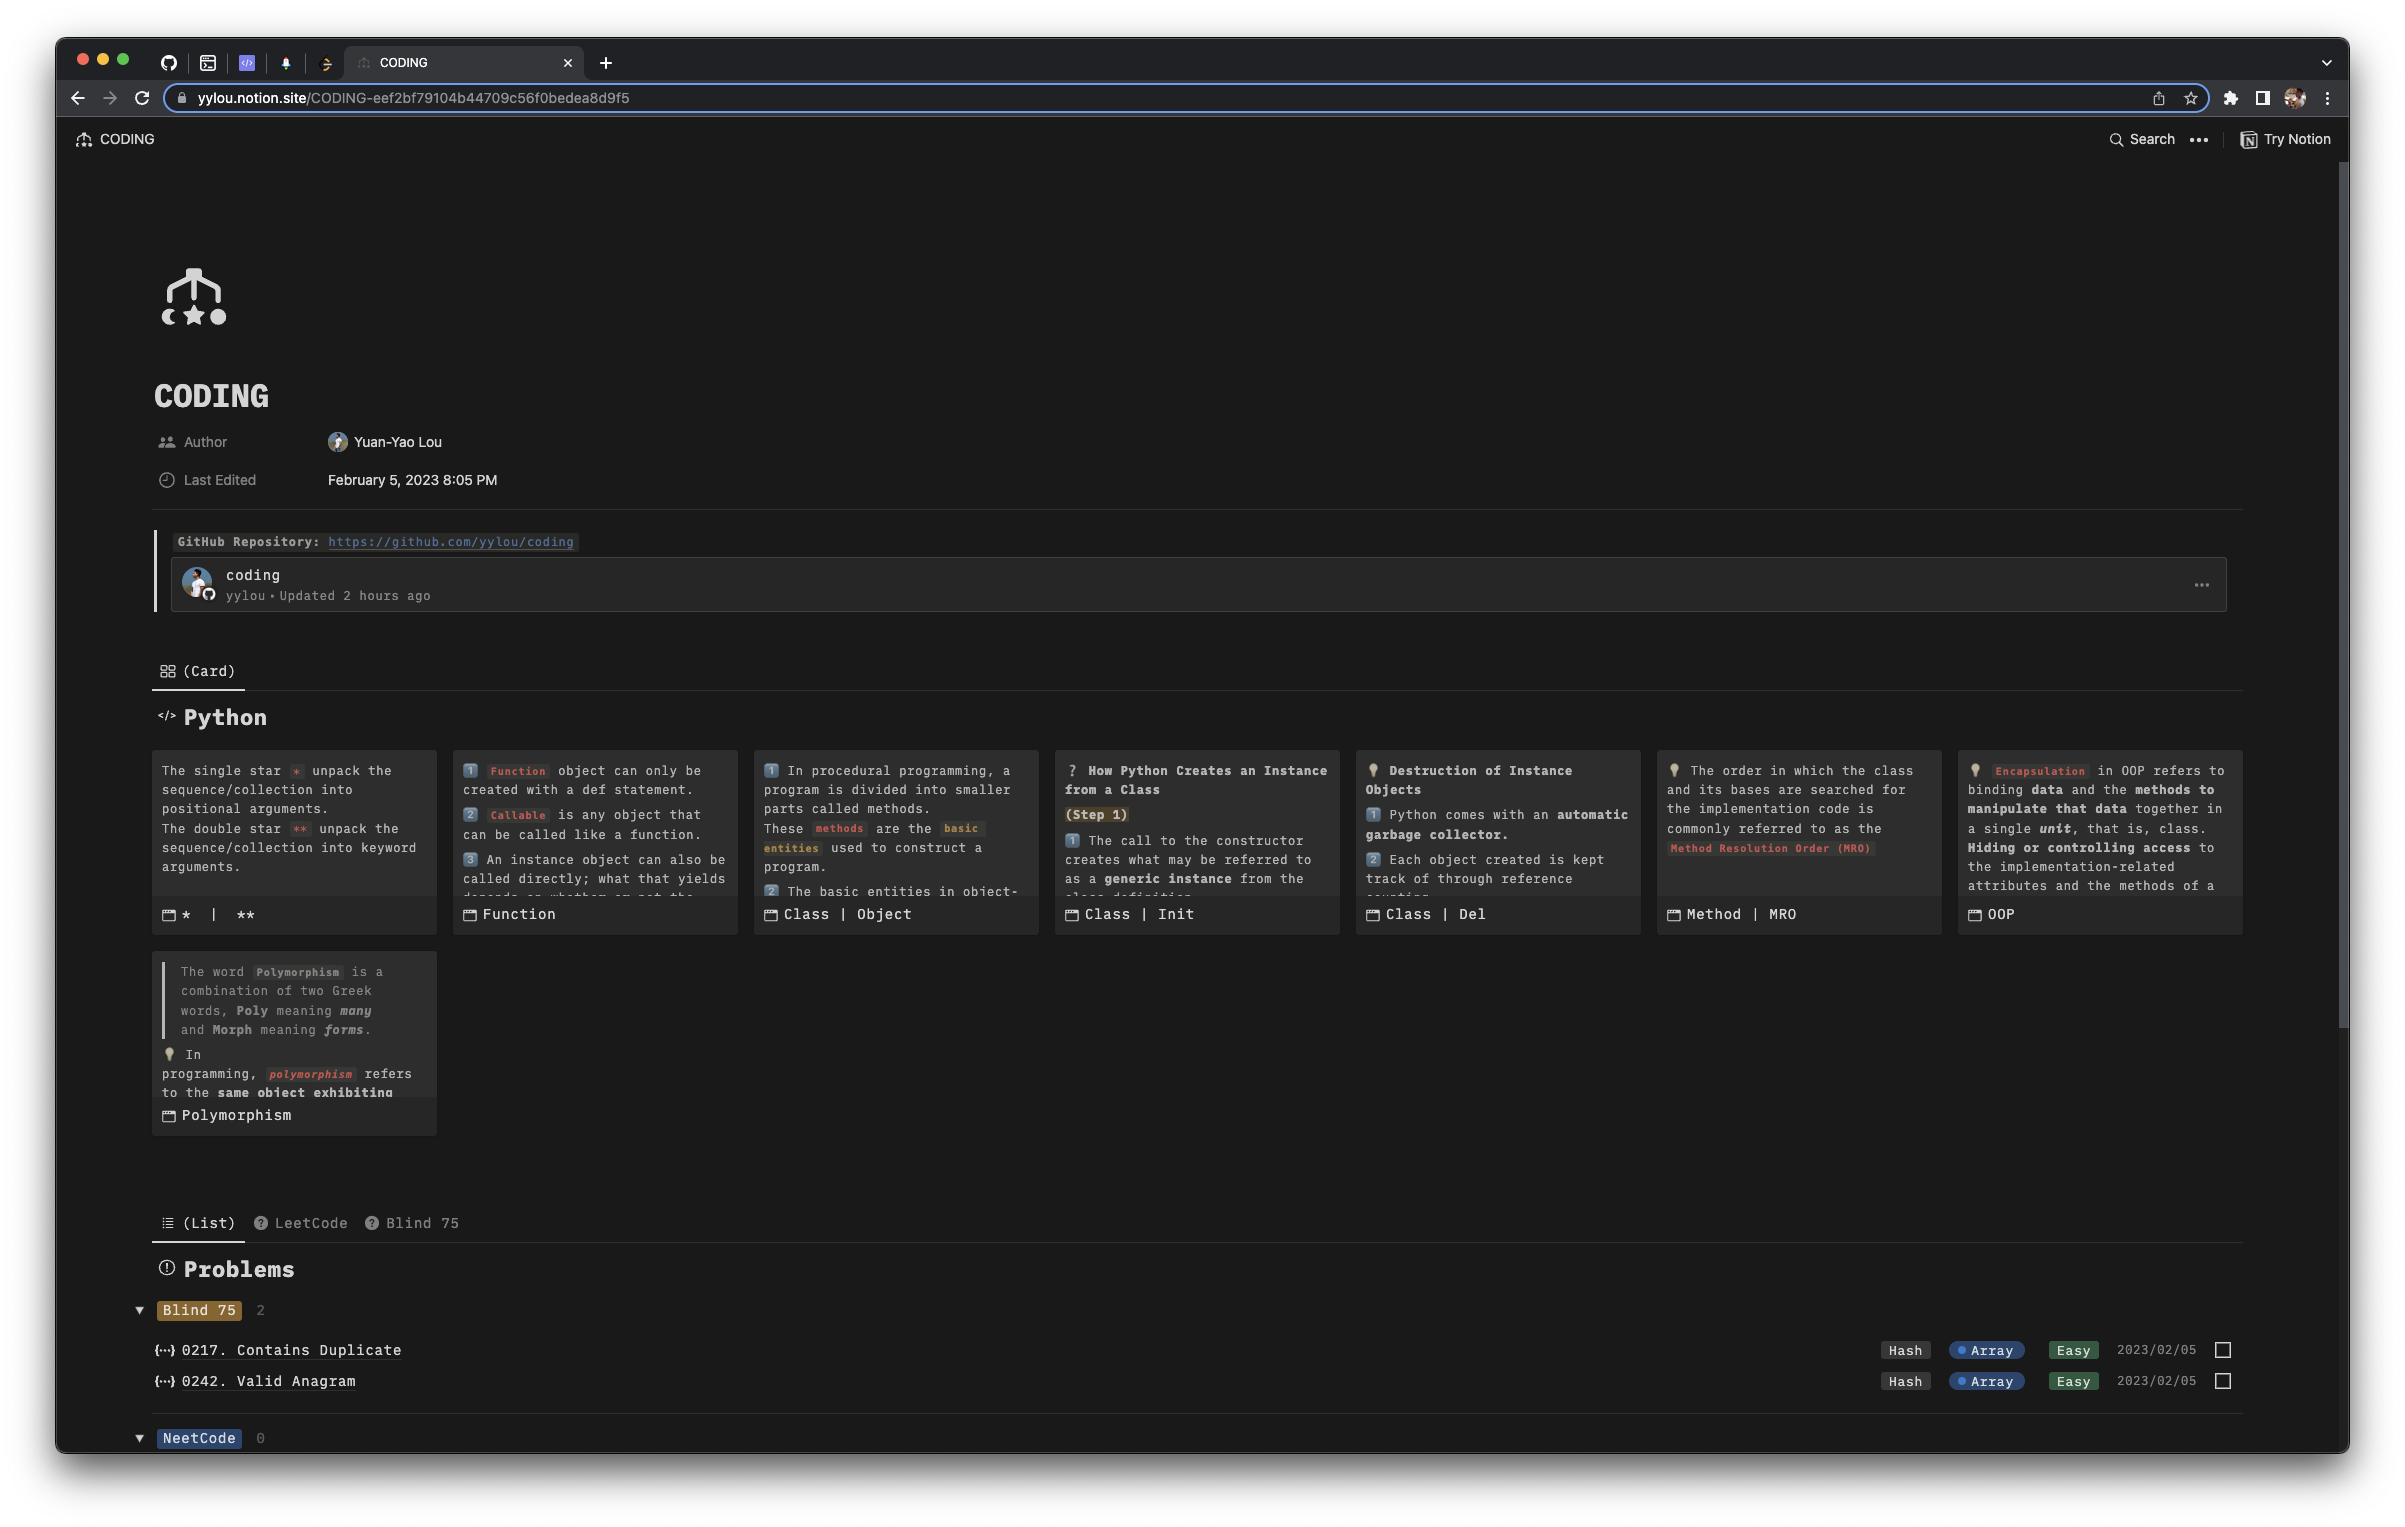
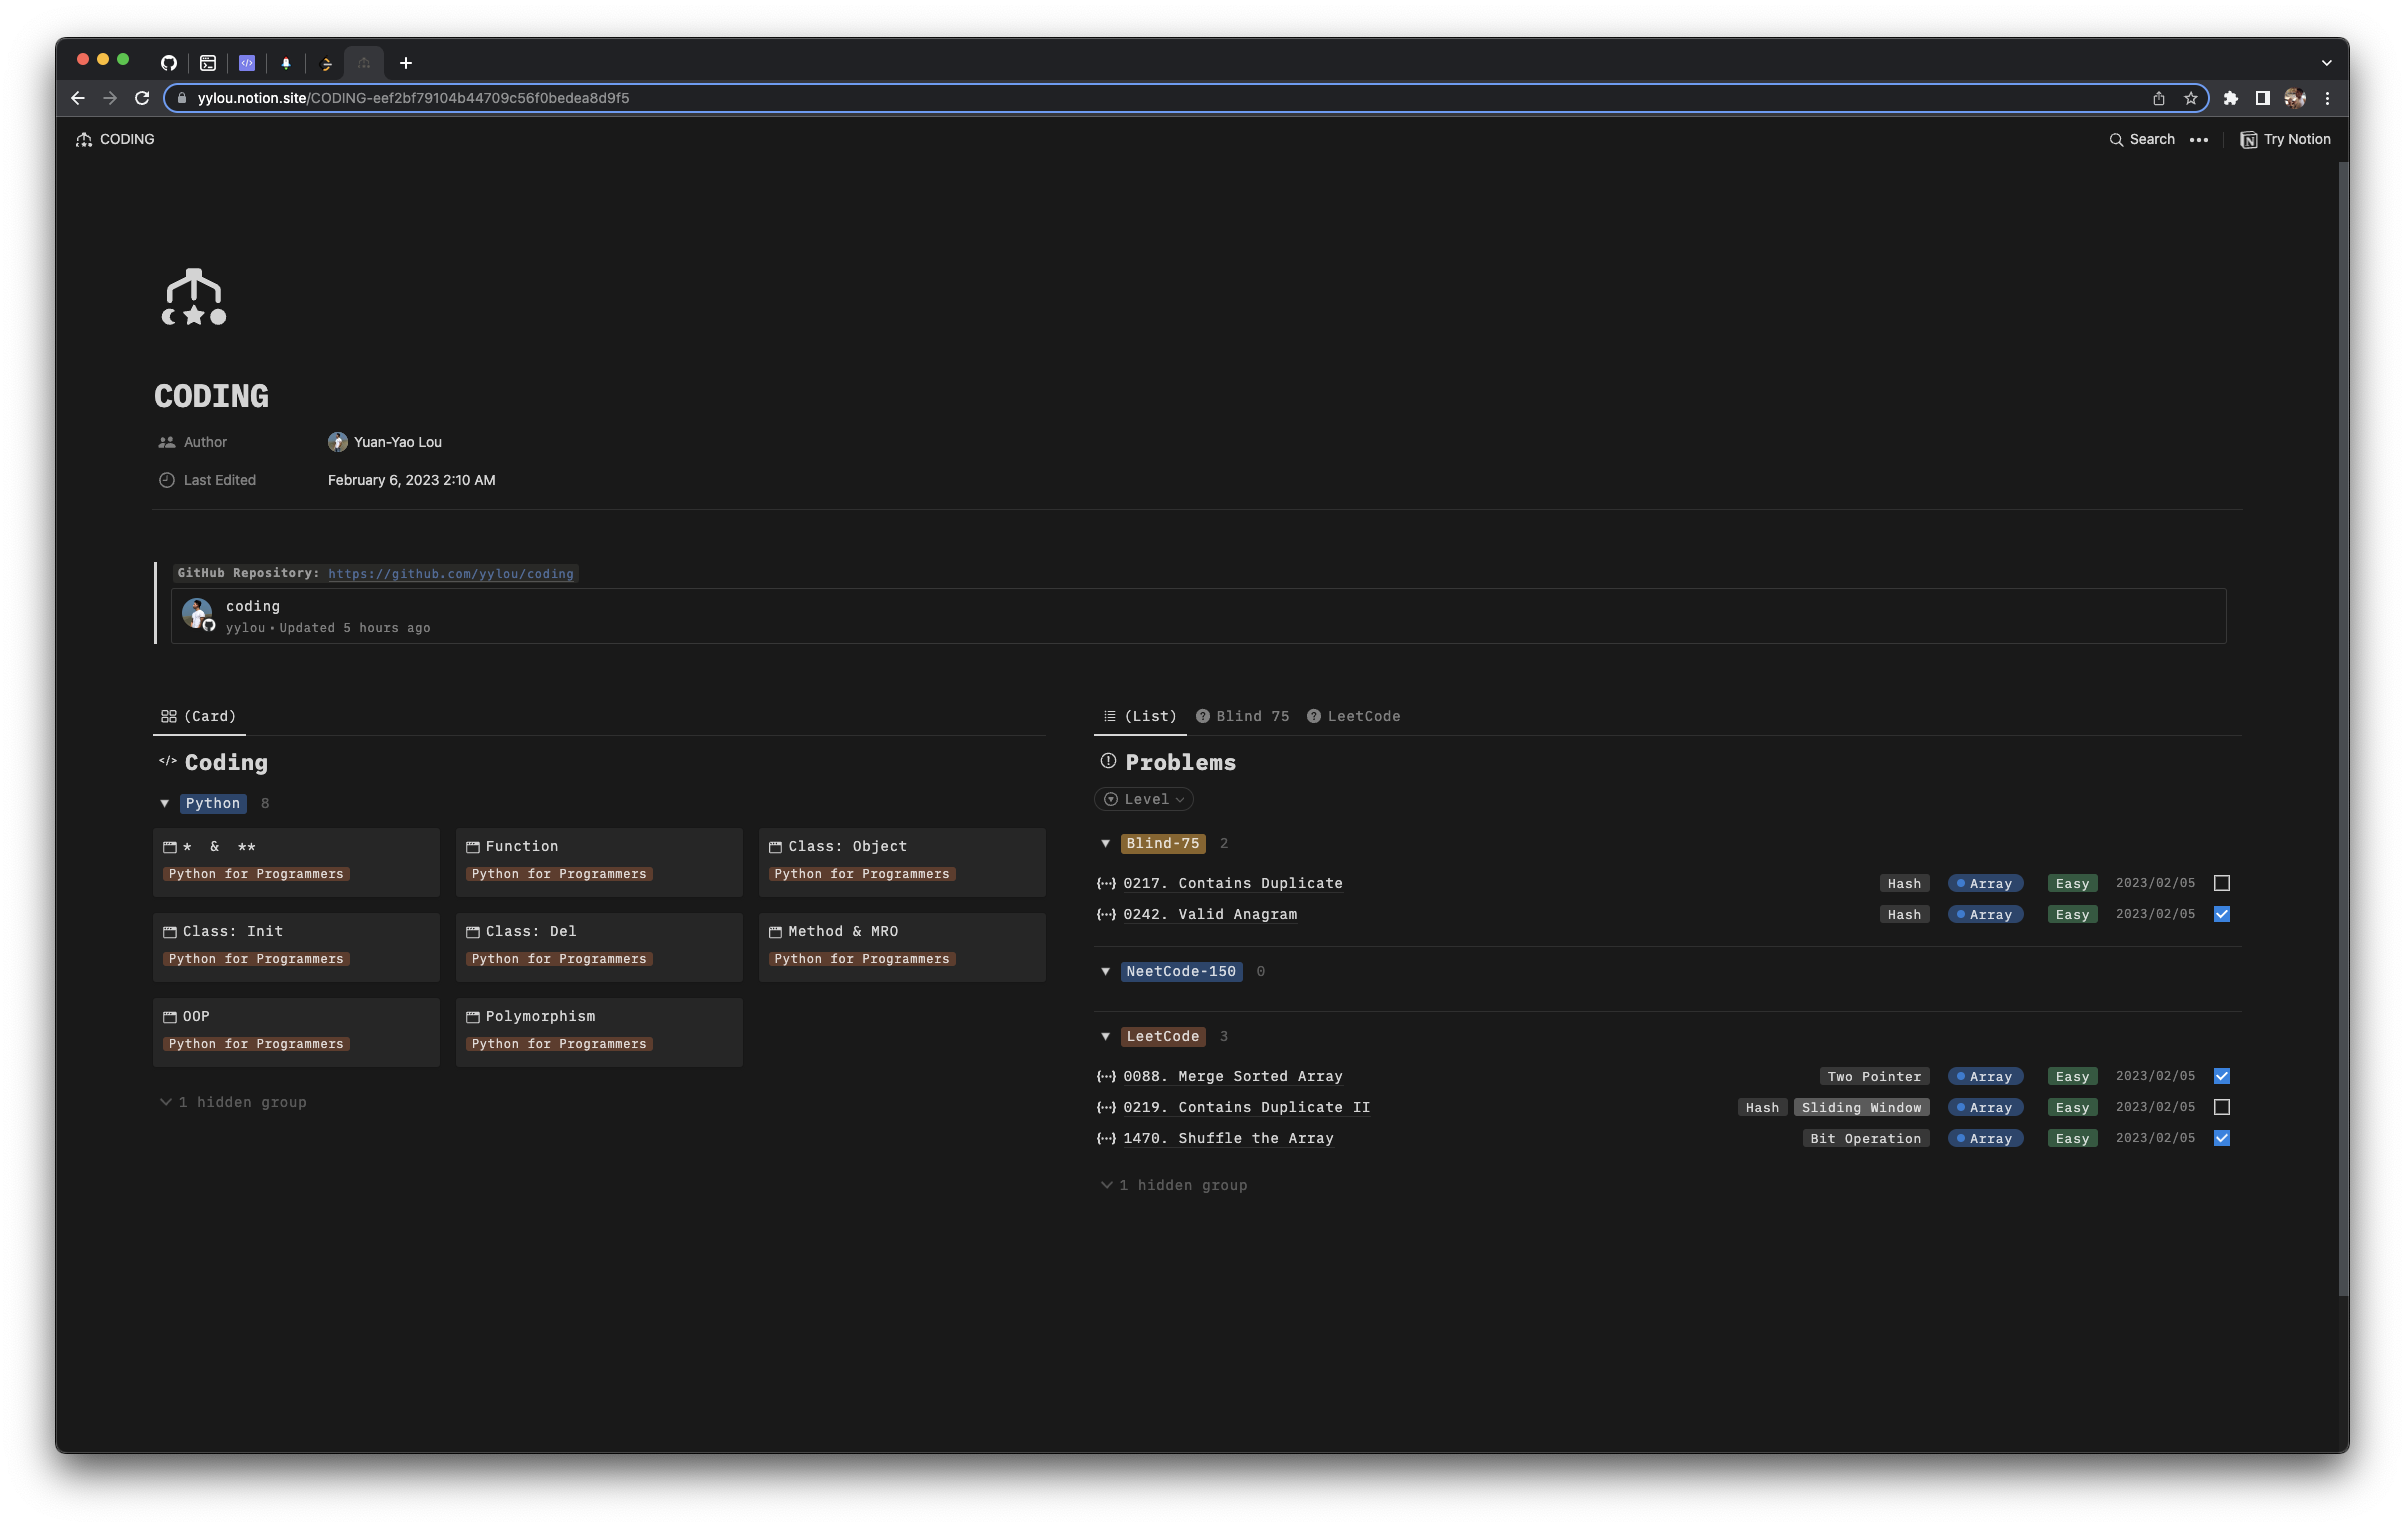
Re-org (Feb 06, 2023)

diff --git a/Test.py b/Test.py
@@ -14,18 +14,16 @@ from Array                      import Array
 class Test:
 
     @classmethod
-    def search(self, id: str):
-        if id == "0088": return self._0088_merge_sorted_array()
-        if id == "1470": return self._1470_shuffle_array()
+    def run(self, *values, **options):
+        if values[0] == "0088": Array._0088_merge_sorted_array(**options); print(options["nums1"])
+        if values[0] == "0242": print(Array._0242_valid_anagram(**options))
+        if values[0] == "1470": print(Array._1470_shuffle_array(**options))
 
     @classmethod
-    def run(self, *values, **options):
-        if values[0] == "0088": 
-            Array._0088_merge_sorted_array(**options)
-            print(options["nums1"])
-
-        if values[0] == "1470":
-            print(Array._1470_shuffle_array(**options))
+    def search(self, id: str):
+        if id == "0088": return self._0088_merge_sorted_array()
+        if id == "0242": return self._0242_valid_anagram()
+        if id == "1470": return self._1470_shuffle_array()
 
     @classmethod
     def _0088_merge_sorted_array(self) -> None:
@@ -33,7 +31,6 @@ class Test:
         nums1 = [1,2,3,0,0,0]
         Array._0088_merge_sorted_array(nums1 = nums1, m = 3, nums2 = [2,5,6], n = 3)
         assert nums1 == [1,2,2,3,5,6]
-
         input = "nums1 = nums1, m = 3, nums2 = [2,5,6], n = 3"
         answer = "[1,2,2,3,5,6]"
         print(f"\n    [Input]     {input}")
@@ -43,7 +40,6 @@ class Test:
         nums1 = [1]
         Array._0088_merge_sorted_array(nums1 = nums1, m = 1, nums2 = [], n = 0)
         assert nums1 == [1]
-
         input = "nums1 = [1], m = 1, nums2 = [], n = 0"
         answer = "[1]"
         print(f"\n    [Input]     {input}")
@@ -53,9 +49,24 @@ class Test:
         nums1 = [0]
         Array._0088_merge_sorted_array(nums1 = nums1, m = 0, nums2 = [1], n = 1)
         assert nums1 == [1]
-
         input = "nums1 = [0], m = 0, nums2 = [1], n = 1"
         answer = "[1]"
+        print(f"\n    [Input]     {input}")
+        print(f"    [Answer]    {answer}\n")
+
+    @classmethod
+    def _0242_valid_anagram(self) -> None:
+        #   | Case 1
+        assert Array._0242_valid_anagram(s = "anagram", t = "nagaram") == True
+        input = 's = "anagram", t = "nagaram"'
+        answer = True
+        print(f"\n    [Input]     {input}")
+        print(f"    [Answer]    {answer}")
+
+        #   | Case 2
+        assert Array._0242_valid_anagram(s = "rat", t = "car") == False
+        input = 's = "rat", t = "car"'
+        answer = False
         print(f"\n    [Input]     {input}")
         print(f"    [Answer]    {answer}\n")
 
@@ -63,7 +74,6 @@ class Test:
     def _1470_shuffle_array(self) -> None:
         #   | Case 1
         assert Array._1470_shuffle_array(nums = [2,5,1,3,4,7], n = 3) == [2,3,5,4,1,7]
-
         input = "nums = [2,5,1,3,4,7], n = 3"
         answer = "[2,3,5,4,1,7]"
         print(f"\n    [Input]     {input}")
@@ -71,7 +81,6 @@ class Test:
 
         #   | Case 2
         assert Array._1470_shuffle_array(nums = [1,2,3,4,4,3,2,1], n = 4) == [1,4,2,3,3,2,4,1]
-
         input = "nums = [1,2,3,4,4,3,2,1], n = 4"
         answer = "[1,4,2,3,3,2,4,1]"
         print(f"\n    [Input]     {input}")
@@ -79,7 +88,6 @@ class Test:
 
         #   | Case 3
         assert Array._1470_shuffle_array(nums = [1,1,2,2], n = 2) == [1,2,1,2]
-
         input = "nums = [1,1,2,2], n = 2"
         answer = "[1,2,1,2]"
         print(f"\n    [Input]     {input}")

diff --git a/Array.py b/Array.py
@@ -14,6 +14,7 @@ class Array:
     @classmethod
     def search(self, id: str):
         if id == "0088": return self._0088_merge_sorted_array
+        if id == "0242": return self._0242_valid_anagram
         if id == "1470": return self._1470_shuffle_array
 
     @classmethod
@@ -37,6 +38,23 @@ class Array:
                 p2 -= 1
 
             place -= 1
+
+    @classmethod
+    def _0242_valid_anagram(self, s: str, t: str) -> bool:
+        """
+        Easy  |  Hash  |  https://leetcode.com/problems/valid-anagram
+        """
+
+        from collections import Counter
+
+        counter = Counter(s)
+        for char in t:
+            if char not in counter: return False    # extra
+            if counter[char] <= 0 : return False    # not enough
+            counter[char] -= 1
+        
+        if any(counter.values()): return False      # remain
+        return True
 
     @classmethod
     def _1470_shuffle_array(self, nums: list, n: int) -> list:
